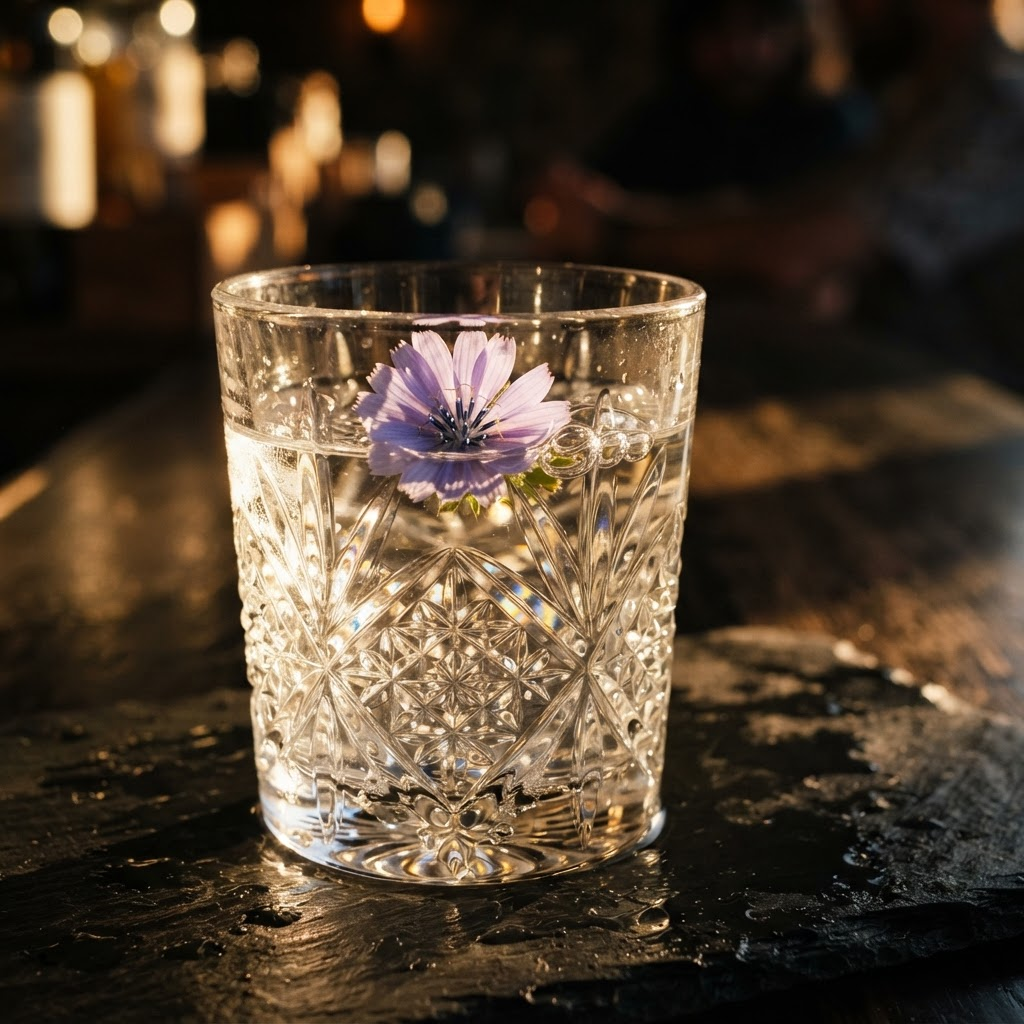
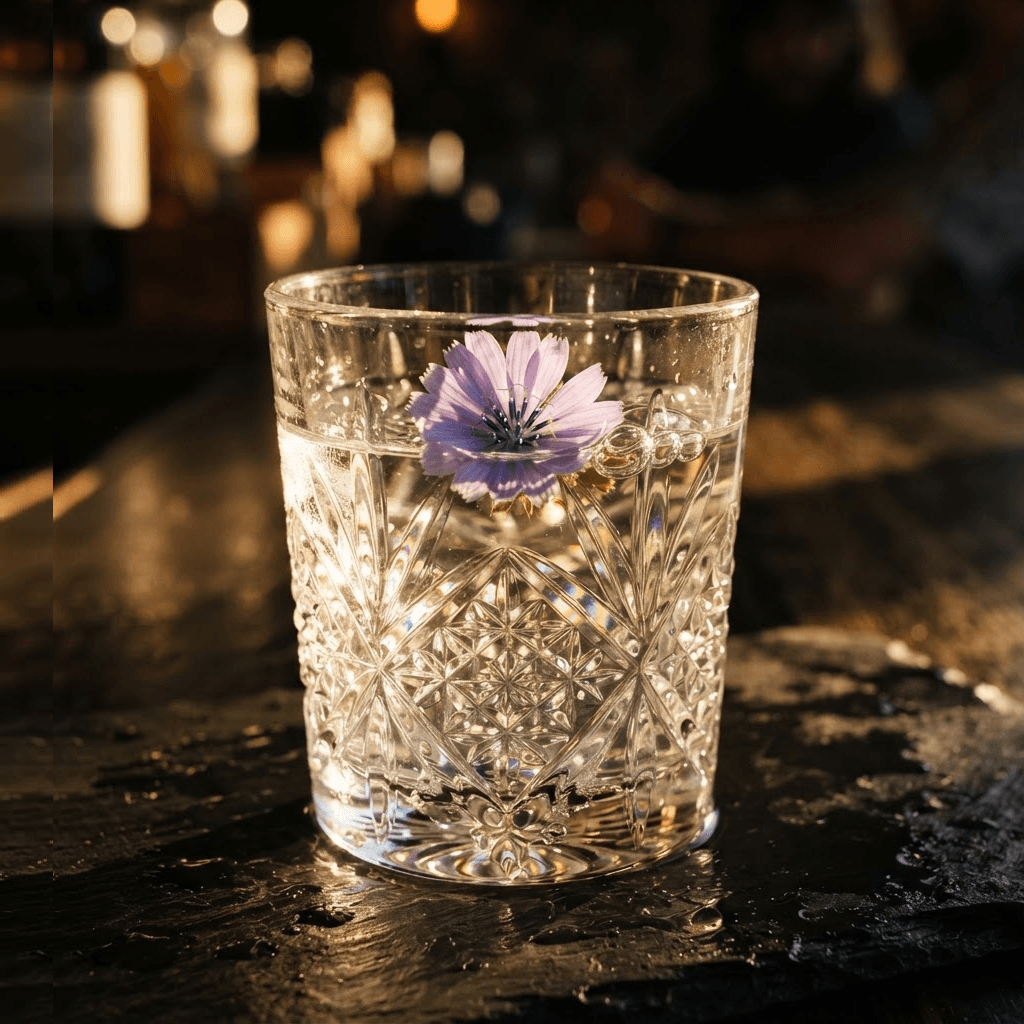
fix(experience): center glass and flower in frame

diff --git a/components/experience.tsx b/components/experience.tsx
@@ -15,7 +15,7 @@ export function Experience() {
         <img
           src="/experience-glass.png"
           alt={t.experience.imgAlt}
-          className="size-full object-cover"
+          className="size-full object-cover object-center"
         />
         <div className="absolute inset-0 bg-background/55" />
         <div className="absolute inset-0 bg-gradient-to-t from-background via-transparent to-background/60" />
